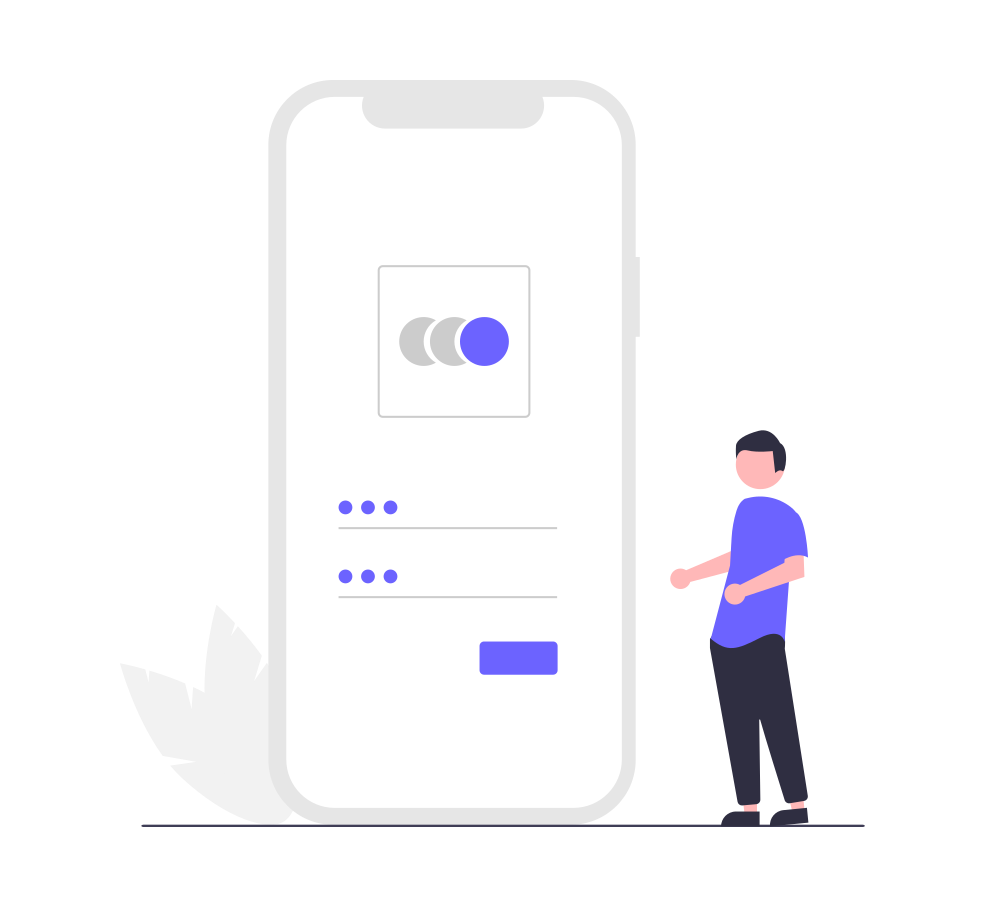
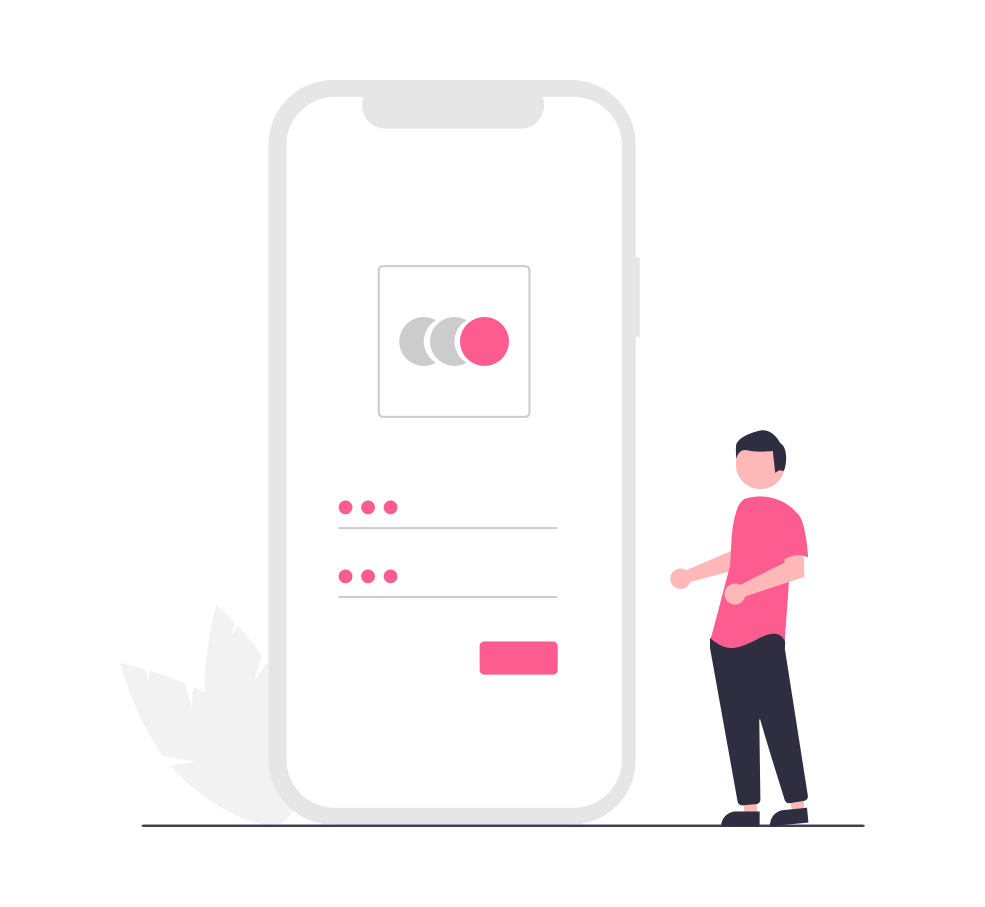
finalised login and created routes

diff --git a/lib/views/start_buffer.dart b/lib/views/start_buffer.dart
@@ -1,0 +1,51 @@
+import 'dart:async';
+
+import 'home.dart';
+import 'package:flutter/material.dart';
+import 'Myroutes.dart';
+
+class startpage extends StatefulWidget {
+  const startpage({Key? key}) : super(key: key);
+
+  @override
+  State<startpage> createState() => _startpageState();
+}
+
+class _startpageState extends State<startpage> {
+  @override
+  void initState() {
+    // TODO: implement initState
+    super.initState();
+    startTimer();
+  }
+
+  startTimer() async {
+    var dur = Duration(seconds: 4);
+    return Timer(dur, route);
+  }
+
+  route() {
+    Navigator.pushReplacement(
+        context, MaterialPageRoute(builder: (context) => HomePage()));
+  }
+
+  @override
+  Widget build(BuildContext context) {
+    return Scaffold(
+      body: Column(
+        children: [
+          Image.asset("images/start1.jpeg", fit: BoxFit.scaleDown),
+          Text(
+            "loading",
+            style: TextStyle(color: Colors.pink.shade400),
+          ),
+          Padding(padding: EdgeInsets.only(top: 20.0)),
+          CircularProgressIndicator(
+            backgroundColor: Colors.white,
+            strokeWidth: 1,
+          )
+        ],
+      ),
+    );
+  }
+}

diff --git a/lib/main.dart b/lib/main.dart
@@ -1,9 +1,11 @@
 import 'package:flutter/material.dart';
 import 'package:project_breathe/views/Myroutes.dart';
 import 'package:project_breathe/views/authentication.dart';
+import 'package:project_breathe/views/create_blog.dart';
 import 'package:project_breathe/views/home.dart';
 import 'package:project_breathe/views/Medical.dart';
 import 'package:google_fonts/google_fonts.dart';
+import 'package:project_breathe/views/start_buffer.dart';
 
 void main() async {
   runApp(MyApp());
@@ -22,10 +24,12 @@ class MyApp extends StatelessWidget {
       ),
       debugShowCheckedModeBanner: false,
       routes: {
-        "/": (context) => HomePage(),
+        "/": (context) => startpage(),
         Myroutes.homeroute: (context) => HomePage(),
         Myroutes.loginroute: (context) => LoginPage(),
         Myroutes.medicalroute: (context) => MedPage(),
+        Myroutes.startroute: (context) => startpage(),
+        Myroutes.blogroute: (context) => CreateBlog(),
       },
     );
   }

diff --git a/lib/views/authentication.dart b/lib/views/authentication.dart
@@ -43,7 +43,7 @@ class _LoginPageState extends State<LoginPage> {
     return Scaffold(
       backgroundColor: Colors.white12,
       appBar: AppBar(
-        backgroundColor: Colors.pink.shade600,
+        backgroundColor: Colors.pinkAccent,
         title: Text(
           "Login",
           style: TextStyle(

diff --git a/lib/views/Medical.dart b/lib/views/Medical.dart
@@ -41,7 +41,7 @@ class _MedPageState extends State<MedPage> {
     return Scaffold(
       backgroundColor: Colors.white12,
       appBar: AppBar(
-        backgroundColor: Colors.pink.shade600,
+        backgroundColor: Colors.pinkAccent,
         title: Text(
           "Breathe",
           style: TextStyle(

diff --git a/lib/views/Myroutes.dart b/lib/views/Myroutes.dart
@@ -2,4 +2,6 @@ class Myroutes {
   static String loginroute = "/login";
   static String homeroute = "/home";
   static String medicalroute = "/med";
+  static String startroute = "/strt";
+  static String blogroute = "/blog";
 }
